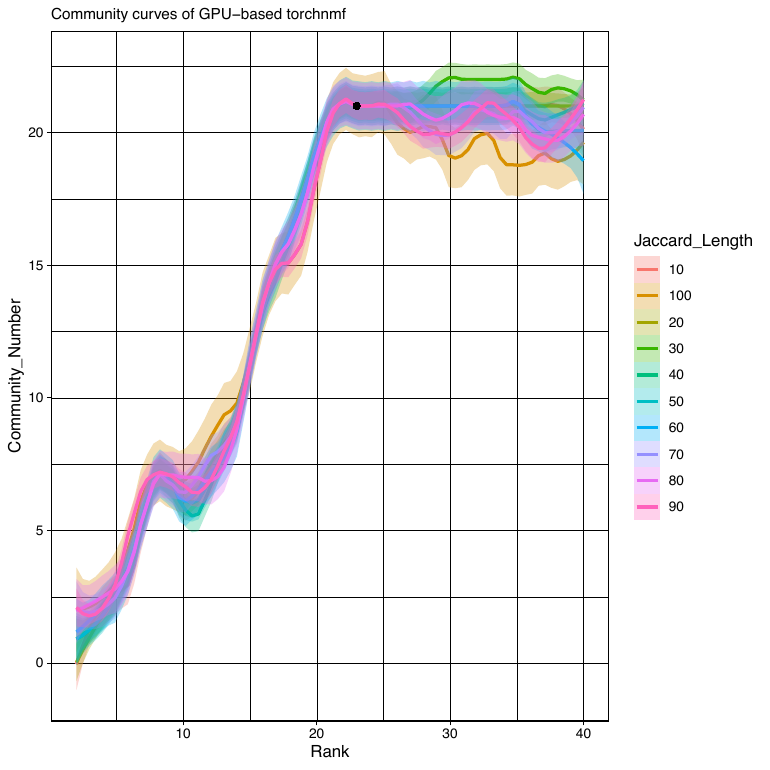
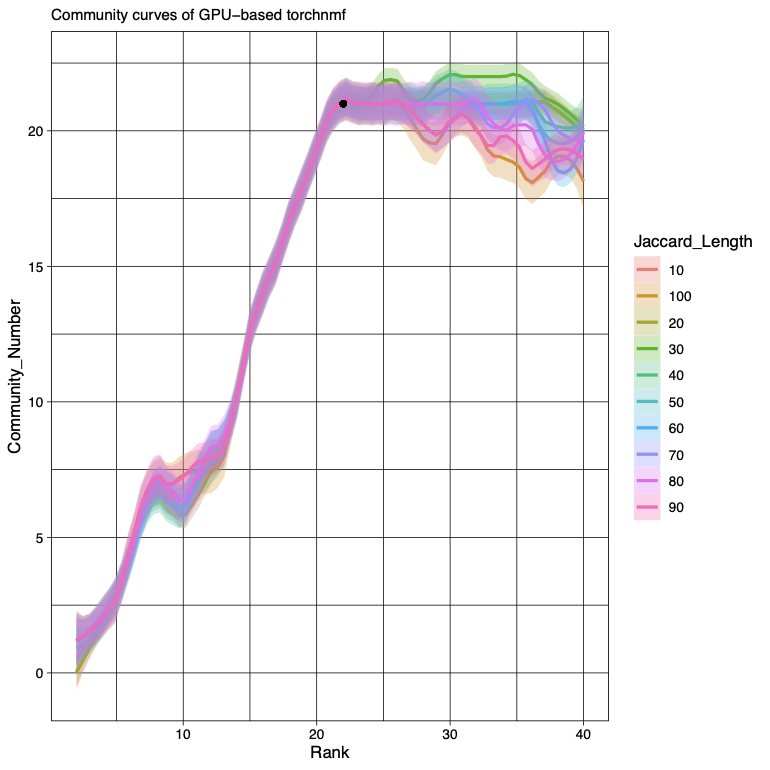
TUTORIAL: outputs, figure and run times from the 2026.11 container run (K = 22)

diff --git a/TUTORIAL.md b/TUTORIAL.md
@@ -3,13 +3,13 @@
 This walkthrough simulates a small dataset with known gene expression programs, runs the complete CSI-GEP
 pipeline on it, and checks the result against the true programs. Every command below was run as written,
 with both setup options. The outputs, figure and run times quoted are from the option A (container) run; option B
-gave the same 21 GEPs with K = 22 instead of 23 (see step 5).
+gave the same result (K = 22, 21 GEPs; see step 5).
 
 **You need:** either Singularity/Apptainer or Docker (option A, containers), or conda (option B, install the
 environments); ~10 GB disk; a GPU is recommended but optional (CSI-GEP falls back to CPU, much slower). Both options
 run the same scripts, and steps 1–7 are identical for both.
 
-**Time:** about 22 min of compute plus queue waiting (46 min in our test) on a cluster running one job per K in
+**Time:** about 26 min of compute plus queue waiting (59 min in our test, including 14 min to download the containers) on a cluster running one job per K in
 parallel (GPU for NMF); about 8 h if every step runs one after another on a single GPU (see [resources](#running-on-a-cluster)).
 
 ---
@@ -146,20 +146,19 @@ cat ${RUN}GEP_results/output_summary.txt
 
 ```
 Community_Number: 21
-Rank: 23
+Rank: 22
 Jaccard_Length: 100
 Rescued more programs: FALSE
-Automatically selected rank k = 23
+Automatically selected rank k = 22
 CSIGEP finished!
 ```
 
-CSI-GEP selected K = 23 and JL = 100 and found **21 GEPs**. K can be larger than the number of GEPs: in this run, three
-GEPs each merge three programs (one half split the program in two, and both pieces matched the same program in the
+CSI-GEP selected K = 22 and JL = 100 and found **21 GEPs**. K can be larger than the number of GEPs: in this run, one
+GEP merges three programs (one half split the program in two, and both pieces matched the same program in the
 other half), and one split1 program matched nothing (`demo_gepindex.RDS` lists the members of each GEP).
 
-This output is from option A. Option B, run on the same simulated data, selected K = 22 (JL = 100) and also
-found 21 GEPs that recover all 21 true programs; NMF starts from random values, so the selected K can differ
-slightly between runs.
+This output is from option A. Option B also selected K = 22 (JL = 100) and found 21 GEPs that recover all 21 true
+programs; NMF starts from random values, so the selected K can differ slightly between runs.
 
 ## 6. Read the results
 
@@ -186,7 +185,7 @@ The top genes of each GEP are what you interpret (marker genes, pathway enrichme
 **Check the curves.** `<name>_Curves.pdf` shows, for each JL, how many reproducible GEPs (communities) each K
 gives, and marks the (K, JL) that CSI-GEP selected: the JL whose curve falls most steeply after its elbow, at that
 curve's elbow. In this simulated demo the programs are cleanly separated, so the curves for all JLs rise to 21 at
-about K = 21 and stay close to 21 over a wide range of K; CSI-GEP selected K = 23, JL = 100. In real data the curves
+about K = 21 and stay close to 21 over a wide range of K; CSI-GEP selected K = 22, JL = 100. In real data the curves
 for different JLs can differ in shape and height and need not level off. Note that CSI-GEP only considers
 the K values listed in `K.txt`. If the selected K is at the upper end of that range, it may be worth scanning
 larger K (steps 3–4 for the new values, then step 5 on all of them).
@@ -194,7 +193,7 @@ larger K (steps 3–4 for the new values, then step 5 on all of them).
 ![Community curves from the demo run](tutorial/figures/demo_Curves.png)
 
 *`demo_Curves.pdf` from the demo run: number of reproducible GEPs vs K, one line per JL; the black point is the
-selected K = 23, JL = 100. Lines are loess-smoothed, so they can overshoot the actual counts (which never exceed 21
+selected K = 22, JL = 100. Lines are loess-smoothed, so they can overshoot the actual counts (which never exceed 21
 here); the exact counts per (K, JL) are in `demo_jaccardtest_communities.RDS`.*
 
 ## 7. Check against the truth (simulated data only)
@@ -281,7 +280,7 @@ A cell in split1 is handled the same way, with the split1 programs.
 
 ```r
 res <- "tutorial_run/"
-K   <- readRDS(paste0(res, "GEP_results/demo_optimized_parameters.RDS"))$Rank   # selected K (23 in the demo)
+K   <- readRDS(paste0(res, "GEP_results/demo_optimized_parameters.RDS"))$Rank   # selected K (22 in the demo)
 idx <- readRDS(paste0(res, "GEP_results/demo_gepindex.RDS"))   # one entry per GEP
 idx[[1]]                                                       # programs in GEP 1: $Split0 and $Split1
 
@@ -337,8 +336,8 @@ cat("cells whose main identity GEP is their group's GEP:", round(sum(apply(tab, 
 ```
 
 ```
-activity GEP: GEP13 | correlation with true usage: 0.67 
-cells whose main identity GEP is their group's GEP: 0.963 
+activity GEP: GEP19 | correlation with true usage: 0.67 
+cells whose main identity GEP is their group's GEP: 0.965 
 ```
 
 ### Scoring cells that were not in the run
@@ -366,19 +365,19 @@ parallel, the elapsed time for a step is roughly that of its slowest job.
 
 | Step | Jobs | Time per job | Peak memory per job |
 |---|---|---|---|
-| Simulate | 1 | 1 min | 7.5 GB |
-| Prepare | 1 | 22 s | 0.5 GB |
-| Factorize (`cNMF.py`) | 1 per K (39) | 7–13 min (6.7 h summed) | 3.7 GB |
-| Jaccard (`Jaccard.R`, 16 cores) | 1 per K (39) | 43 s – 6 min, longer for larger K (1.2 h summed) | 9.7 GB |
-| GEP analysis | 1 | 47 s | 0.4 GB |
+| Simulate | 1 | 1 min | 7.3 GB |
+| Prepare | 1 | 53 s | 0.9 GB |
+| Factorize (`cNMF.py`) | 1 per K (39) | 7–16 min (6.1 h summed) | 2.4 GB |
+| Jaccard (`Jaccard.R`, 16 cores) | 1 per K (39) | 75 s – 7 min, depending on K and the node (1.6 h summed) | 10.6 GB |
+| GEP analysis | 1 | 90 s | 0.4 GB |
 
-With one job per K in parallel, the longest chain of jobs is about 22 min of compute (simulate, prepare, the slowest
-NMF job, the slowest Jaccard job, GEP analysis); in our test the whole demo took 46 min elapsed, the difference being
-time spent waiting in the cluster queue.
+With one job per K in parallel, the longest chain of jobs is about 26 min of compute (simulate, prepare, the slowest
+NMF job, the slowest Jaccard job, GEP analysis); in our test the whole demo took 59 min elapsed, including 14 min to
+download the containers, the rest being time spent waiting in the cluster queue.
 
 Each Jaccard job runs K² tests (every split0 program against every split1 program) at each of 10 JLs, so
 K = 40 runs 16,000 tests against 1,000 at K = 10. For K well above this tutorial's range, request more time and
-memory than the table shows (in the demo, K = 40 took 4 min and 8.6 GB).
+memory than the table shows (in the demo, K = 40 took 2 min and 6.9 GB).
 
 ## Reproduce the paper
 
